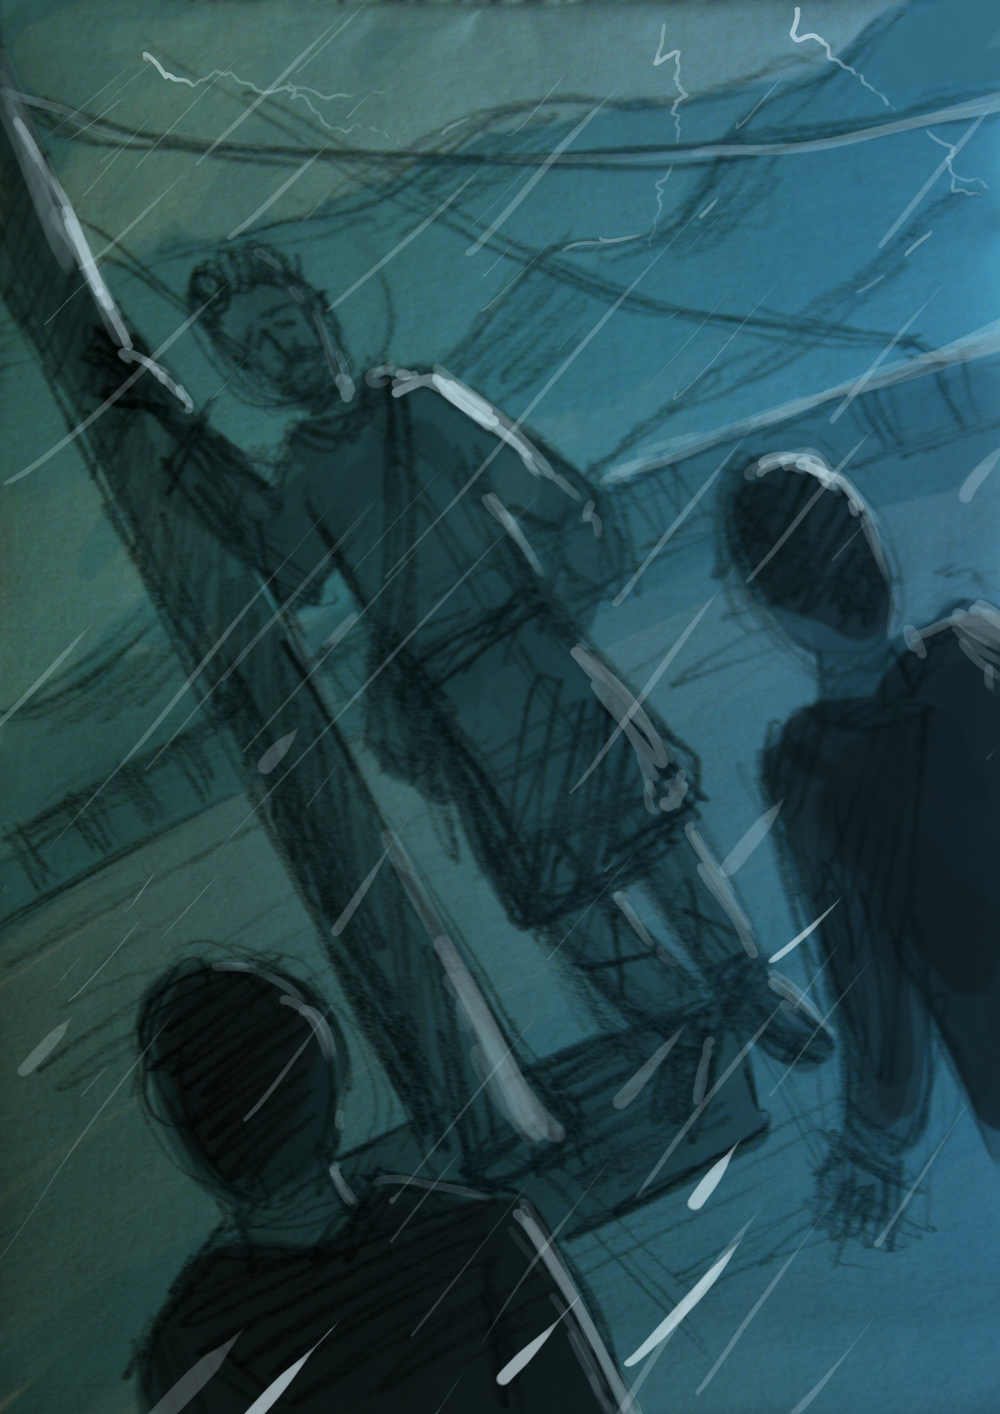
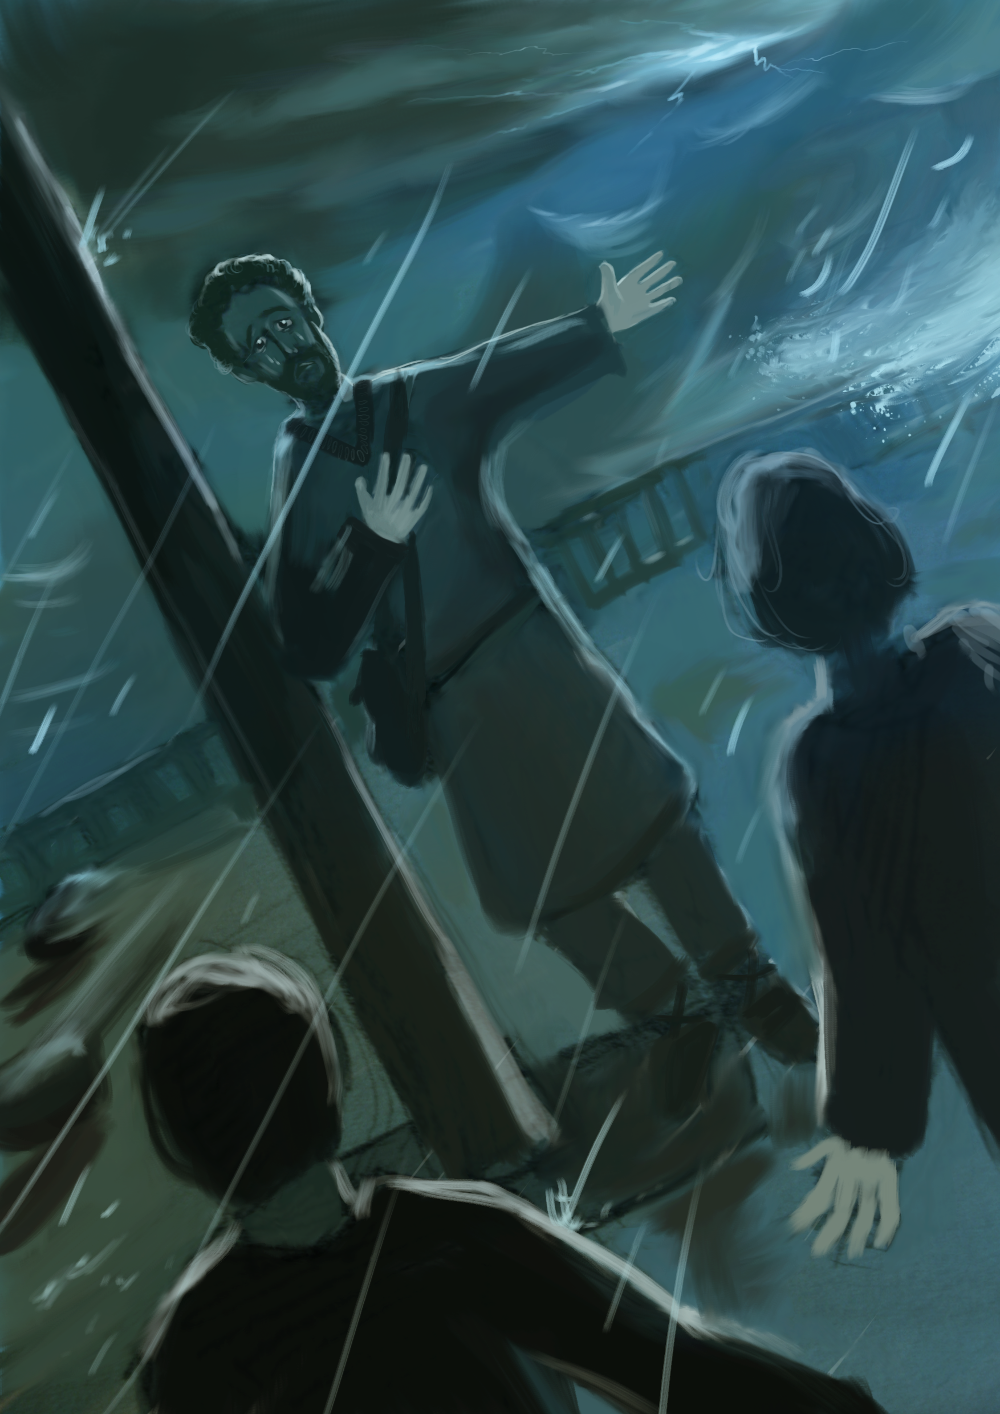
Update 16.

diff --git a/script.js b/script.js
@@ -4,7 +4,7 @@ angular.module('galleryApp', [])
     gallery.language = "ro";
     gallery.work_start_date = new Date(2016,05,20);
 
-    gallery.worked_hours = 145;  // EDIT HERE
+    gallery.worked_hours = 145.5;  // EDIT HERE
 
     gallery.get_global_progress = function() {
       var index;
@@ -260,7 +260,7 @@ angular.module('galleryApp', [])
       {
         id: 16,
         img: '16.png',
-        done: 50,
+        done: 90,
         text: {
           ro: "1:12. El le-a răspuns: \"Luaţi-mă şi aruncaţi-mă în mare, şi marea se va linişti faţă de voi! Căci ştiu că din vina mea vine peste voi această mare furtună!\"",
           en: "1:12. And he said unto them, Take me up, and cast me forth into the sea; so shall the sea be calm unto you: for I know that for my sake this great tempest is upon you."
